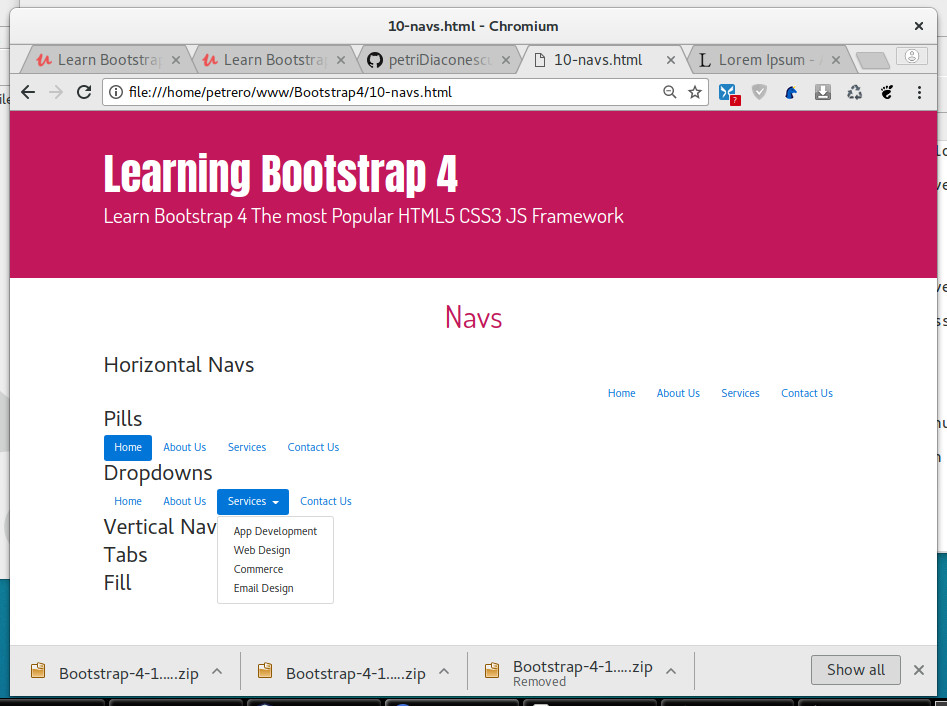
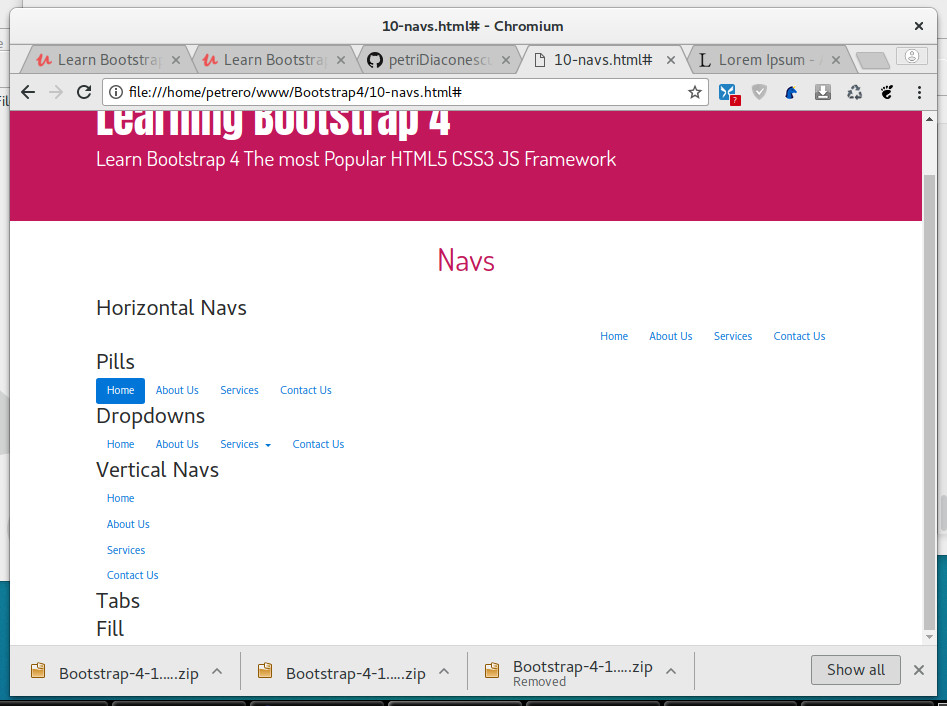
Tabs navigation

diff --git a/10-navs.html b/10-navs.html
@@ -112,7 +112,22 @@
          </nav>
 
          <h2>Tabs</h2>
-
+         <nav>
+           <ul class="nav nav-tabs">
+             <li class="nav-item">
+                 <a class="nav-link active" href="#">Home</a>
+             </li>
+             <li class="nav-item">
+                 <a class="nav-link" href="#">About Us</a>
+             </li>
+             <li class="nav-item">
+                 <a class="nav-link" href="#">Services</a>
+             </li>
+             <li class="nav-item">
+                 <a class="nav-link" href="#">Contact Us</a>
+             </li>
+           </ul>
+         </nav>
 
 
 
